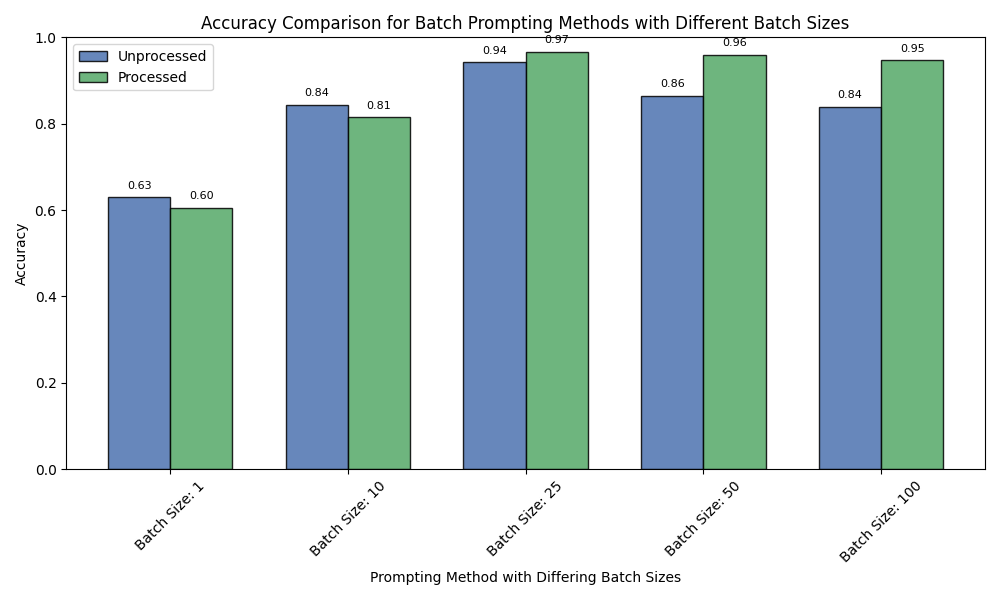
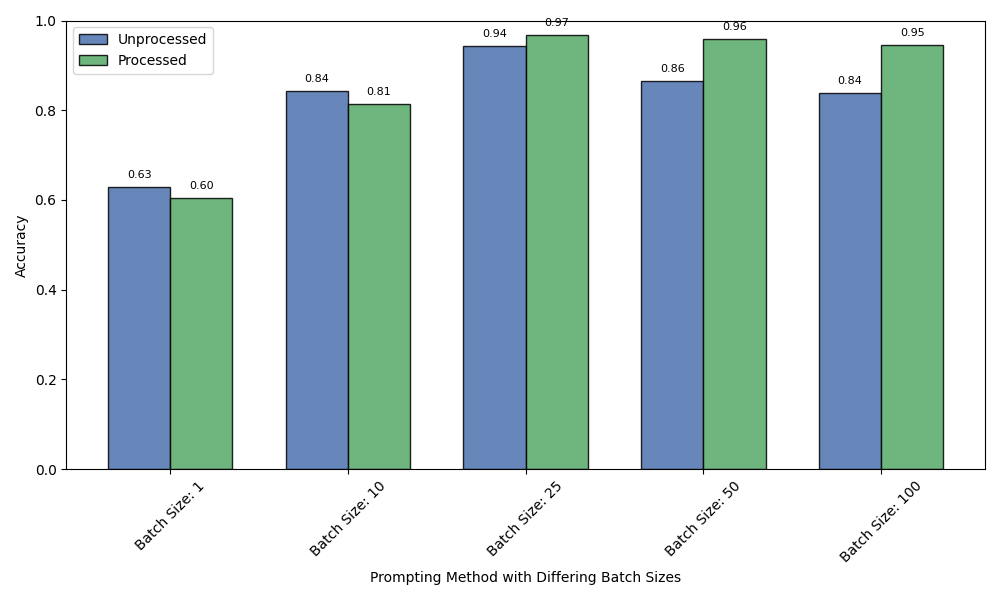
Edits

diff --git a/langchain_intro/accuracyPlot2.py b/langchain_intro/accuracyPlot2.py
@@ -97,7 +97,7 @@ plt.bar(x - width / 2, unprocessed_values, width, label="Unprocessed", color="#4
 plt.bar(x + width / 2, processed_values, width, label="Processed", color="#55a868", alpha=0.85, edgecolor="black")
 
 # Add title and labels with enhanced fonts
-plt.title("Accuracy Comparison for Different Prompting Methods", fontsize=16, fontweight="bold", pad=20)
+# plt.title("Accuracy Comparison for Different Prompting Methods", fontsize=16, fontweight="bold", pad=20)
 plt.xlabel("Prompting Method")
 plt.ylabel("Accuracy")
 plt.xticks(x, labels, rotation=45)

diff --git a/langchain_intro/accuracyPlot3_1.py b/langchain_intro/accuracyPlot3_1.py
@@ -48,7 +48,7 @@ plt.bar(x + width / 2, processed_values, width, label="Processed", color="#55a86
 # Add labels, title, and legend
 plt.xlabel("Prompting Method with Differing Batch Sizes")
 plt.ylabel("Accuracy")
-plt.title("Accuracy Comparison for Batch Prompting Methods with Different Batch Sizes")
+# plt.title("Accuracy Comparison for Batch Prompting Methods with Different Batch Sizes")
 plt.xticks(x, labels, rotation=45)
 plt.ylim(0, 1)
 plt.legend(loc="upper left")
